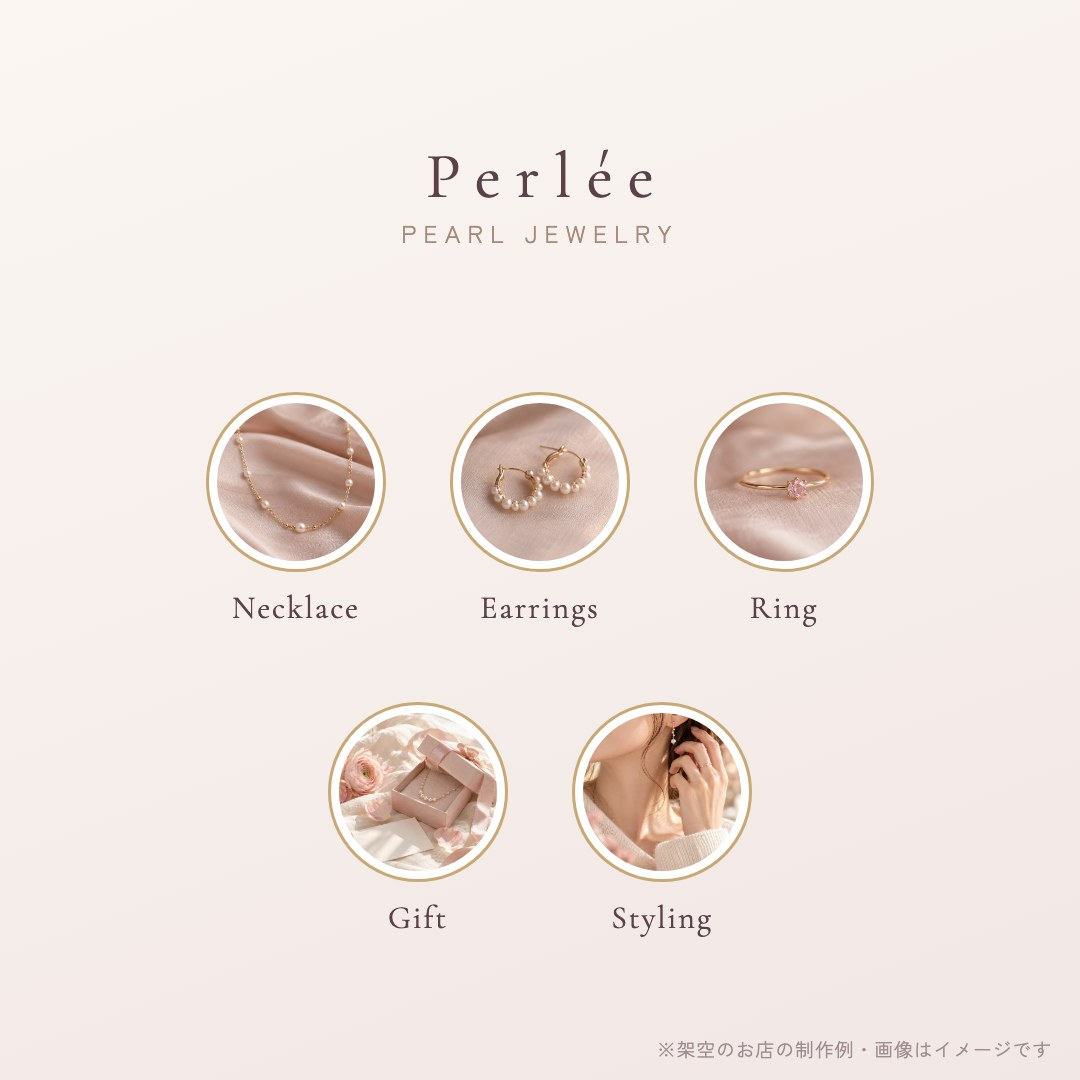
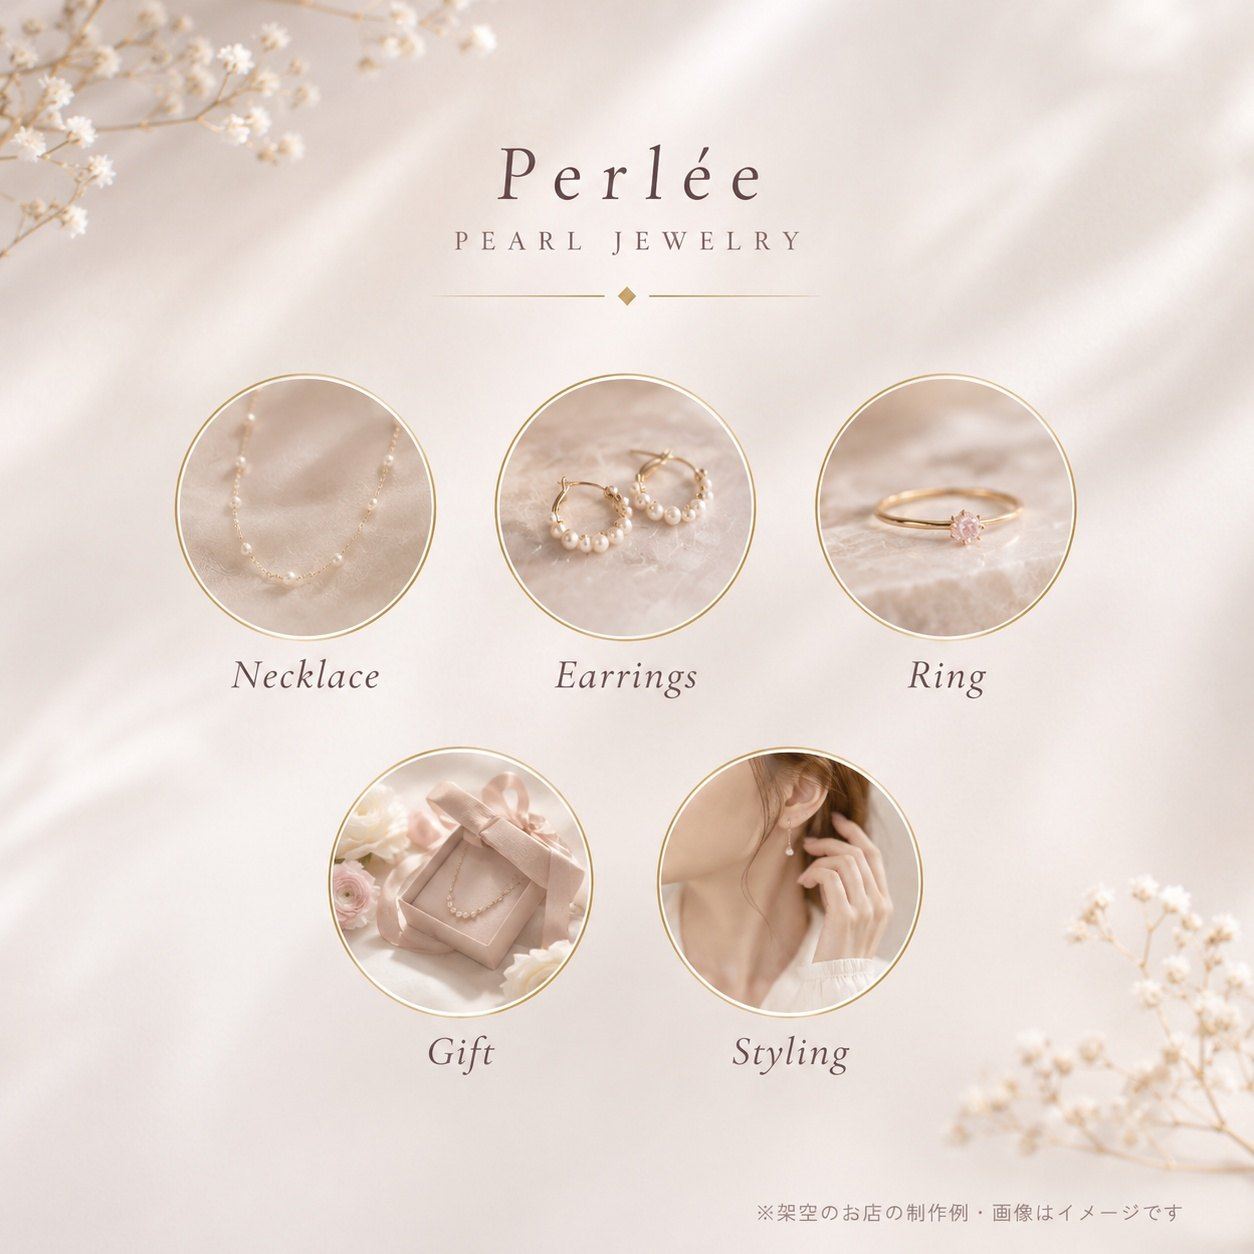
highlight 01-13 GPT remake

diff --git a/samples/highlight/index.html b/samples/highlight/index.html
@@ -20,7 +20,7 @@ header{display:flex;justify-content:space-between;align-items:center;padding:18p
 .cta{text-align:center;padding:0 20px 30px}.cta a{display:inline-block;background:#7A4E58;color:#fff;border-radius:999px;padding:12px 30px;font-size:14px}</style></head><body>
 <header><a class="brand" href="../../">Muse Web.</a><a class="back" href="../../#service">← サービス一覧へ</a></header>
 <div class="hd"><div class="en">Highlight cover</div><h1>インスタのハイライト表紙</h1><p>プロフィールを見やすく整える表紙を、お店の色にそろえて。1セット5個からおつくりします。</p><span class="n">サンプル 13点</span></div>
-<div class="grid"><a class="it" href="#v1"><div class="im"><img src="01.jpg" alt="Rosée（フェイシャルサロン）" loading="lazy"></div><div class="bd"><b>Rosée（フェイシャルサロン）</b><span>くすみピンク×線のアイコン</span></div></a><a class="it" href="#v2"><div class="im"><img src="02.jpg" alt="petal（ネイル・まつげ）" loading="lazy"></div><div class="bd"><b>petal（ネイル・まつげ）</b><span>写真を丸く切り抜いて</span></div></a><a class="it" href="#v3"><div class="im"><img src="03.jpg" alt="lumière（まつげ・眉）" loading="lazy"></div><div class="bd"><b>lumière（まつげ・眉）</b><span>ラベンダーのグラデーション</span></div></a><a class="it" href="#v4"><div class="im"><img src="04.jpg" alt="mimosa（美容室）" loading="lazy"></div><div class="bd"><b>mimosa（美容室）</b><span>モノトーン×イエロー</span></div></a><a class="it" href="#v5"><div class="im"><img src="05.jpg" alt="Perlée（ジュエリー）" loading="lazy"></div><div class="bd"><b>Perlée（ジュエリー）</b><span>パール×金の細い縁</span></div></a><a class="it" href="#v6"><div class="im"><img src="06.jpg" alt="Arcane Rose（タロット占い）" loading="lazy"></div><div class="bd"><b>Arcane Rose（タロット占い）</b><span>夜空色×金の線</span></div></a><a class="it" href="#v7"><div class="im"><img src="07.jpg" alt="Sillage（ファッションコンサル）" loading="lazy"></div><div class="bd"><b>Sillage（ファッションコンサル）</b><span>番号で見せるミニマル</span></div></a><a class="it" href="#v8"><div class="im"><img src="08.jpg" alt="Lisse（脱毛サロン）" loading="lazy"></div><div class="bd"><b>Lisse（脱毛サロン）</b><span>ミント×点線でやさしく</span></div></a><a class="it" href="#v9"><div class="im"><img src="09.jpg" alt="NUAGE（ヘッドスパ）" loading="lazy"></div><div class="bd"><b>NUAGE（ヘッドスパ）</b><span>ネイビー×サンド・写真入り</span></div></a><a class="it" href="#v10"><div class="im"><img src="10.jpg" alt="LUMEN（スキンケアブランド）" loading="lazy"></div><div class="bd"><b>LUMEN（スキンケアブランド）</b><span>黒×金のローマ数字</span></div></a><a class="it" href="#v11"><div class="im"><img src="11.jpg" alt="からだ処 ゆるり（整体・ボディケア）" loading="lazy"></div><div class="bd"><b>からだ処 ゆるり（整体・ボディケア）</b><span>テラコッタ×手書き風の文字</span></div></a><a class="it" href="#v12"><div class="im"><img src="12.jpg" alt="Amélie（眉・メイク）" loading="lazy"></div><div class="bd"><b>Amélie（眉・メイク）</b><span>筆記体×くすみローズ</span></div></a><a class="it" href="#v13"><div class="im"><img src="13.jpg" alt="エステ・ネイルの2パターン" loading="lazy"></div><div class="bd"><b>エステ・ネイルの2パターン</b><span>文字だけ／写真入りの比較</span></div></a></div>
+<div class="grid"><a class="it" href="#v1"><div class="im"><img src="01.jpg" alt="Rosée（フェイシャルサロン）" loading="lazy"></div><div class="bd"><b>Rosée（フェイシャルサロン）</b><span>くすみピンク×線のアイコン</span></div></a><a class="it" href="#v2"><div class="im"><img src="02.jpg" alt="petal（ネイル・まつげ）" loading="lazy"></div><div class="bd"><b>petal（ネイル・まつげ）</b><span>写真を丸く切り抜いて</span></div></a><a class="it" href="#v3"><div class="im"><img src="03.jpg" alt="lumière（まつげ・眉）" loading="lazy"></div><div class="bd"><b>lumière（まつげ・眉）</b><span>くすみラベンダー×線のアイコン</span></div></a><a class="it" href="#v4"><div class="im"><img src="04.jpg" alt="mimosa（美容室）" loading="lazy"></div><div class="bd"><b>mimosa（美容室）</b><span>グレージュ×ミモザ色</span></div></a><a class="it" href="#v5"><div class="im"><img src="05.jpg" alt="Perlée（ジュエリー）" loading="lazy"></div><div class="bd"><b>Perlée（ジュエリー）</b><span>パール×金の細い縁</span></div></a><a class="it" href="#v6"><div class="im"><img src="06.jpg" alt="Arcane Rose（タロット占い）" loading="lazy"></div><div class="bd"><b>Arcane Rose（タロット占い）</b><span>夜空色×金の線</span></div></a><a class="it" href="#v7"><div class="im"><img src="07.jpg" alt="Sillage（ファッションコンサル）" loading="lazy"></div><div class="bd"><b>Sillage（ファッションコンサル）</b><span>番号で見せるミニマル</span></div></a><a class="it" href="#v8"><div class="im"><img src="08.jpg" alt="Lisse（脱毛サロン）" loading="lazy"></div><div class="bd"><b>Lisse（脱毛サロン）</b><span>くすみミント×線のアイコン</span></div></a><a class="it" href="#v9"><div class="im"><img src="09.jpg" alt="NUAGE（ヘッドスパ）" loading="lazy"></div><div class="bd"><b>NUAGE（ヘッドスパ）</b><span>ネイビー×サンド・写真入り</span></div></a><a class="it" href="#v10"><div class="im"><img src="10.jpg" alt="LUMEN（スキンケアブランド）" loading="lazy"></div><div class="bd"><b>LUMEN（スキンケアブランド）</b><span>アイボリー×金のローマ数字</span></div></a><a class="it" href="#v11"><div class="im"><img src="11.jpg" alt="からだ処 ゆるり（整体・ボディケア）" loading="lazy"></div><div class="bd"><b>からだ処 ゆるり（整体・ボディケア）</b><span>くすみテラコッタ×線のアイコン</span></div></a><a class="it" href="#v12"><div class="im"><img src="12.jpg" alt="Amélie（眉・メイク）" loading="lazy"></div><div class="bd"><b>Amélie（眉・メイク）</b><span>くすみローズ×写真入り</span></div></a><a class="it" href="#v13"><div class="im"><img src="13.jpg" alt="エステ・ネイルの2パターン" loading="lazy"></div><div class="bd"><b>エステ・ネイルの2パターン</b><span>文字だけ／写真入りの比較</span></div></a></div>
 <div class="lb" id="v1"><a class="x" href="#" aria-label="閉じる"></a><img src="01.jpg" alt="Rosée（フェイシャルサロン）"></div><div class="lb" id="v2"><a class="x" href="#" aria-label="閉じる"></a><img src="02.jpg" alt="petal（ネイル・まつげ）"></div><div class="lb" id="v3"><a class="x" href="#" aria-label="閉じる"></a><img src="03.jpg" alt="lumière（まつげ・眉）"></div><div class="lb" id="v4"><a class="x" href="#" aria-label="閉じる"></a><img src="04.jpg" alt="mimosa（美容室）"></div><div class="lb" id="v5"><a class="x" href="#" aria-label="閉じる"></a><img src="05.jpg" alt="Perlée（ジュエリー）"></div><div class="lb" id="v6"><a class="x" href="#" aria-label="閉じる"></a><img src="06.jpg" alt="Arcane Rose（タロット占い）"></div><div class="lb" id="v7"><a class="x" href="#" aria-label="閉じる"></a><img src="07.jpg" alt="Sillage（ファッションコンサル）"></div><div class="lb" id="v8"><a class="x" href="#" aria-label="閉じる"></a><img src="08.jpg" alt="Lisse（脱毛サロン）"></div><div class="lb" id="v9"><a class="x" href="#" aria-label="閉じる"></a><img src="09.jpg" alt="NUAGE（ヘッドスパ）"></div><div class="lb" id="v10"><a class="x" href="#" aria-label="閉じる"></a><img src="10.jpg" alt="LUMEN（スキンケアブランド）"></div><div class="lb" id="v11"><a class="x" href="#" aria-label="閉じる"></a><img src="11.jpg" alt="からだ処 ゆるり（整体・ボディケア）"></div><div class="lb" id="v12"><a class="x" href="#" aria-label="閉じる"></a><img src="12.jpg" alt="Amélie（眉・メイク）"></div><div class="lb" id="v13"><a class="x" href="#" aria-label="閉じる"></a><img src="13.jpg" alt="エステ・ネイルの2パターン"></div>
 <p class="note">※掲載しているのは、すべて架空のお店でつくった制作サンプルです。写真の一部は生成AIで作成したイメージです。</p>
 <div class="cta"><a href="../../#contact">ご依頼・ご相談はこちら</a></div>
